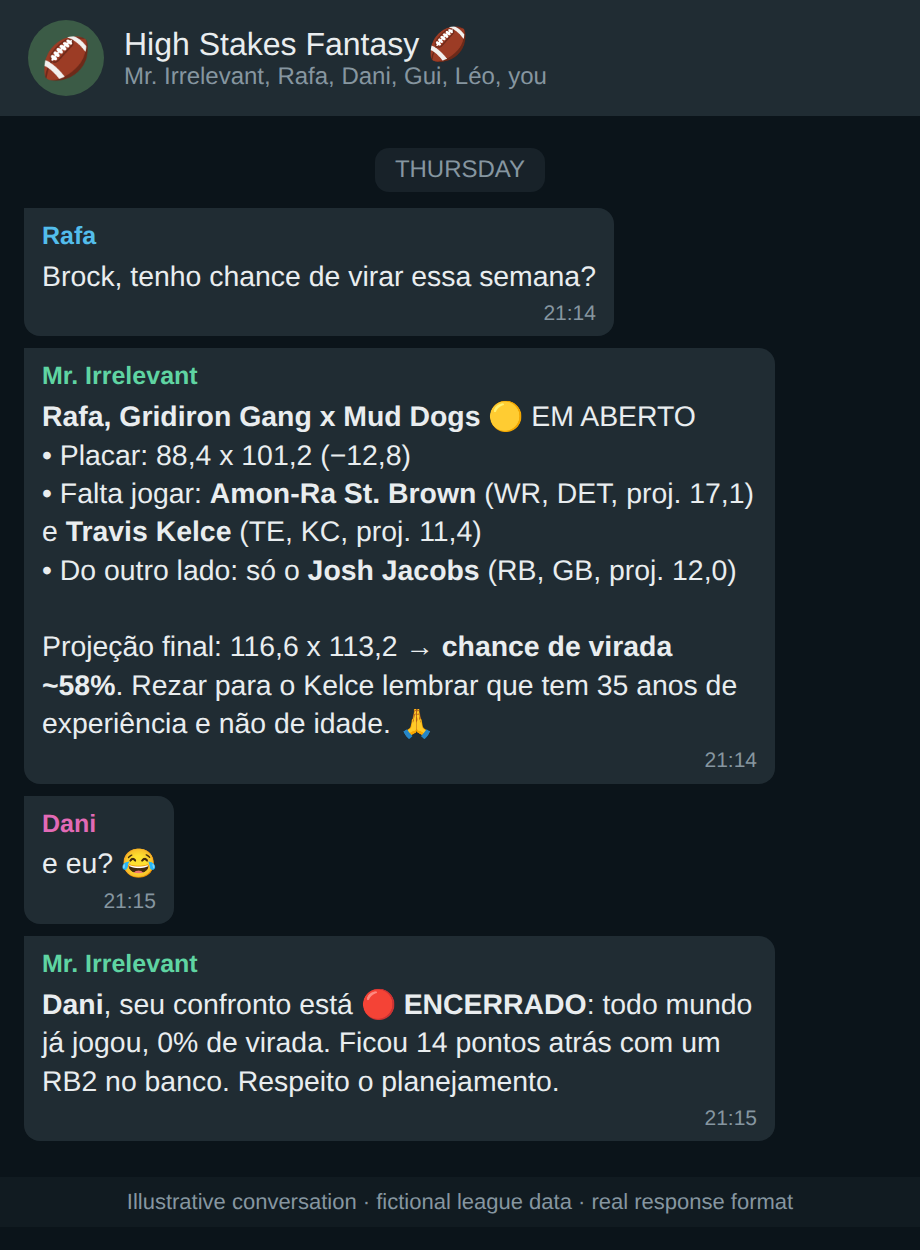
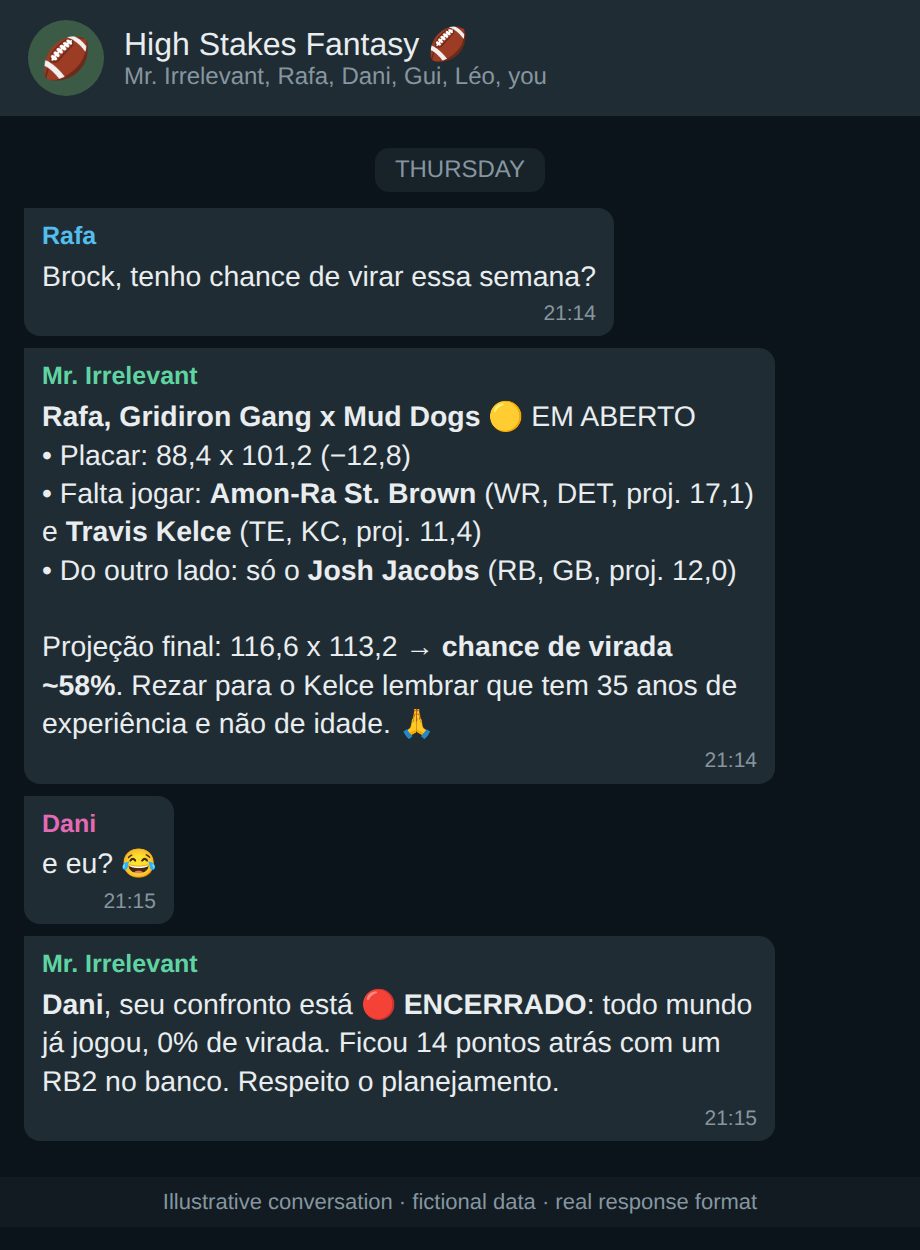
Refresh screenshot captions

Changed region(s): [[0.1217, 0.936, 0.8522, 0.9672]]

diff --git a/README.md b/README.md
@@ -32,7 +32,7 @@ The persona is a joke. The engineering behind it is not: the agent is **forbidde
 
 ## 💬 What it looks like on WhatsApp
 
-> These screenshots are **rendered from the bot's real response format** with fictional league data (no real members or scores are shown).
+> These screenshots are **rendered from the bot's real response format** with fictional data (no real members or scores are shown).
 
 <table>
 <tr>
